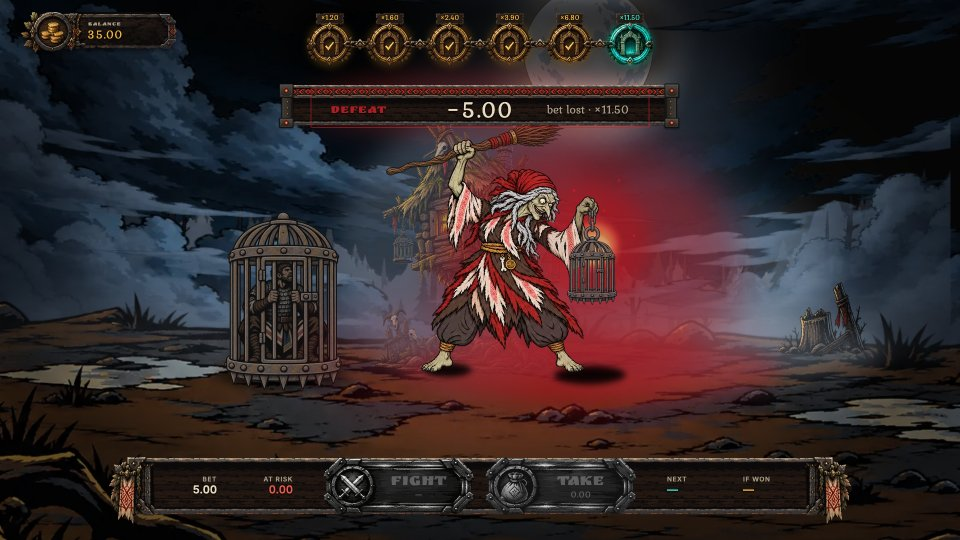
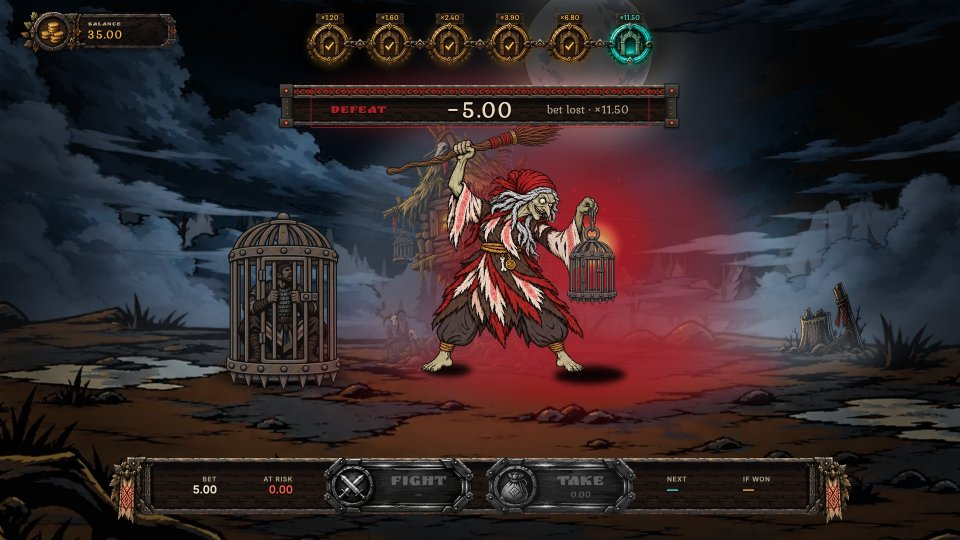
feat: remove the knight rim light
Figma 11.11 deleted every rim light layer. Drop the rim sprites, the
scene colours and their tokens.

diff --git a/docs/qa/report.html b/docs/qa/report.html
@@ -12,11 +12,11 @@
   tr.ok td:first-child { color: #3fe0d0; } tr.bad td:first-child { color: #f05a5a; font-weight: bold; }
 </style></head><body>
 <h1>Casino Game · visual QA</h1>
-<p>Generated 2026-11-11T16:59:53.600Z by <code>prototype/scripts/visual-qa.mjs</code> · app at 1920×1080 (shown at 960×540) · Figma file LXMHPQWUYxLjZiYVTfbx5X.
+<p>Generated 2026-11-11T17:05:49.644Z by <code>prototype/scripts/visual-qa.mjs</code> · app at 1920×1080 (shown at 960×540) · Figma file LXMHPQWUYxLjZiYVTfbx5X.
 Animated frames (attacks, boss entrance) will differ slightly: judge layout, UI and numbers. Character art comes from Lottie, so poses differ from the static Figma frames.</p>
 <h2>Money and runtime checks: 76/76 passed</h2>
 <table><tr class="ok"><td>PASS</td><td>Debug panel: effective RTP for all 7 gates (g1 = 78.0 %)</td><td>g1 78.0% g2 67.6% g3 65.9% g4 69.6% g5 78.9% g6 86.7% g7 93.1%</td></tr><tr class="ok"><td>PASS</td><td>L0: AT RISK (dock) = WIN (counter)</td><td>0.00 vs 0.00</td></tr><tr class="ok"><td>PASS</td><td>L0: AT RISK = game value</td><td>0.00 vs 0</td></tr><tr class="ok"><td>PASS</td><td>L0: TAKE disabled before the first win</td><td></td></tr><tr class="ok"><td>PASS</td><td>L0: FIGHT shows AT RISK</td><td>risk 0.00</td></tr><tr class="ok"><td>PASS</td><td>L0: AT RISK has 2 decimals</td><td>0.00</td></tr><tr class="ok"><td>PASS</td><td>L0: IF WON has 2 decimals</td><td>6.00</td></tr><tr class="ok"><td>PASS</td><td>L0: WIN has 2 decimals</td><td>0.00</td></tr><tr class="ok"><td>PASS</td><td>Balance after PLAY = start − bet</td><td>35.00</td></tr><tr class="ok"><td>PASS</td><td>L1: AT RISK (dock) = WIN (counter)</td><td>6.00 vs 6.00</td></tr><tr class="ok"><td>PASS</td><td>L1: AT RISK = game value</td><td>6.00 vs 6</td></tr><tr class="ok"><td>PASS</td><td>L1: TAKE amount = AT RISK</td><td>6.00 vs 6.00</td></tr><tr class="ok"><td>PASS</td><td>L1: FIGHT shows AT RISK</td><td>risk 6.00</td></tr><tr class="ok"><td>PASS</td><td>L1: AT RISK has 2 decimals</td><td>6.00</td></tr><tr class="ok"><td>PASS</td><td>L1: IF WON has 2 decimals</td><td>8.00</td></tr><tr class="ok"><td>PASS</td><td>L1: WIN has 2 decimals</td><td>6.00</td></tr><tr class="ok"><td>PASS</td><td>L1: path shows only the reached gate</td><td>1</td></tr><tr class="ok"><td>PASS</td><td>L1: plate is text only (no plate art)</td><td>×1.60</td></tr><tr class="ok"><td>PASS</td><td>L1: plate over the vovkulak at 1193,360 (Figma 756:6778)</td><td>1193,360</td></tr><tr class="ok"><td>PASS</td><td>L2: AT RISK (dock) = WIN (counter)</td><td>8.00 vs 8.00</td></tr><tr class="ok"><td>PASS</td><td>L2: AT RISK = game value</td><td>8.00 vs 8</td></tr><tr class="ok"><td>PASS</td><td>L2: TAKE amount = AT RISK</td><td>8.00 vs 8.00</td></tr><tr class="ok"><td>PASS</td><td>L2: FIGHT shows AT RISK</td><td>risk 8.00</td></tr><tr class="ok"><td>PASS</td><td>L2: AT RISK has 2 decimals</td><td>8.00</td></tr><tr class="ok"><td>PASS</td><td>L2: IF WON has 2 decimals</td><td>12.00</td></tr><tr class="ok"><td>PASS</td><td>L2: WIN has 2 decimals</td><td>8.00</td></tr><tr class="ok"><td>PASS</td><td>L3: AT RISK (dock) = WIN (counter)</td><td>12.00 vs 12.00</td></tr><tr class="ok"><td>PASS</td><td>L3: AT RISK = game value</td><td>12.00 vs 12</td></tr><tr class="ok"><td>PASS</td><td>L3: TAKE amount = AT RISK</td><td>12.00 vs 12.00</td></tr><tr class="ok"><td>PASS</td><td>L3: FIGHT shows AT RISK</td><td>risk 12.00</td></tr><tr class="ok"><td>PASS</td><td>L3: AT RISK has 2 decimals</td><td>12.00</td></tr><tr class="ok"><td>PASS</td><td>L3: IF WON has 2 decimals</td><td>19.50</td></tr><tr class="ok"><td>PASS</td><td>L3: WIN has 2 decimals</td><td>12.00</td></tr><tr class="ok"><td>PASS</td><td>L4: AT RISK (dock) = WIN (counter)</td><td>19.50 vs 19.50</td></tr><tr class="ok"><td>PASS</td><td>L4: AT RISK = game value</td><td>19.50 vs 19.5</td></tr><tr class="ok"><td>PASS</td><td>L4: TAKE amount = AT RISK</td><td>19.50 vs 19.50</td></tr><tr class="ok"><td>PASS</td><td>L4: FIGHT shows AT RISK</td><td>risk 19.50</td></tr><tr class="ok"><td>PASS</td><td>L4: AT RISK has 2 decimals</td><td>19.50</td></tr><tr class="ok"><td>PASS</td><td>L4: IF WON has 2 decimals</td><td>34.00</td></tr><tr class="ok"><td>PASS</td><td>L4: WIN has 2 decimals</td><td>19.50</td></tr><tr class="ok"><td>PASS</td><td>L5: AT RISK (dock) = WIN (counter)</td><td>34.00 vs 34.00</td></tr><tr class="ok"><td>PASS</td><td>L5: AT RISK = game value</td><td>34.00 vs 34</td></tr><tr class="ok"><td>PASS</td><td>L5: TAKE amount = AT RISK</td><td>34.00 vs 34.00</td></tr><tr class="ok"><td>PASS</td><td>L5: FIGHT shows AT RISK</td><td>risk 34.00</td></tr><tr class="ok"><td>PASS</td><td>L5: AT RISK has 2 decimals</td><td>34.00</td></tr><tr class="ok"><td>PASS</td><td>L5: IF WON has 2 decimals</td><td>57.50</td></tr><tr class="ok"><td>PASS</td><td>L5: WIN has 2 decimals</td><td>34.00</td></tr><tr class="ok"><td>PASS</td><td>L5: gate 6 enemy is the vovkulak boss, not final</td><td>vovkulakBoss final=false</td></tr><tr class="ok"><td>PASS</td><td>L5: dock still reads IF WON on gate 6</td><td>IF WON</td></tr><tr class="ok"><td>PASS</td><td>L5: plate over the boss at 1201,327 (Figma 756:6539)</td><td>1201,327</td></tr><tr class="ok"><td>PASS</td><td>Gate 6 boss intro banner: BOSS BATTLE · ×11.50, no MAX WIN</td><td>BOSS BATTLE·×11.50</td></tr><tr class="ok"><td>PASS</td><td>Gate 6: FIGHT uses Highlight (boss)</td><td></td></tr><tr class="ok"><td>PASS</td><td>Fight (win): 2–3 exchanges, final blow by the hero</td><td>2 exchanges, winner hero</td></tr><tr class="ok"><td>PASS</td><td>Fight (win): no sprite jumps — every move slides (≥150 ms), shadows on y750 ±4</td><td>5 moves, 0 jumps, y off 0.0 px</td></tr><tr class="ok"><td>PASS</td><td>Fight (lose): 2–3 exchanges, final blow by the enemy</td><td>2 exchanges, winner enemy</td></tr><tr class="ok"><td>PASS</td><td>Fight (lose): no sprite jumps — every move slides (≥150 ms), shadows on y750 ±4</td><td>5 moves, 0 jumps, y off 0.0 px</td></tr><tr class="ok"><td>PASS</td><td>Baba Yaga: cage light is on and follows her (same x as the enemy)</td><td>{"has":true,"follows":true,"src":"/sprites/cage-light.webp"}</td></tr><tr class="ok"><td>PASS</td><td>DEFEAT by Baba Yaga: knight caged at home, she wins on her step 1180</td><td>{"hero":"caged","enemyX":"1180","red":true,"cage":"/sprites/cage-light-red.webp"}</td></tr><tr class="ok"><td>PASS</td><td>DEFEAT by Baba Yaga: red defeat light on, cage light turns red</td><td>{"hero":"caged","enemyX":"1180","red":true,"cage":"/sprites/cage-light-red.webp"}</td></tr><tr class="ok"><td>PASS</td><td>Victory banner = AT RISK growth (19.50 − 12.00)</td><td>+7.50</td></tr><tr class="ok"><td>PASS</td><td>Defeat popup = −bet</td><td></td></tr><tr class="ok"><td>PASS</td><td>Defeat: balance = before − bet</td><td>35.00</td></tr><tr class="ok"><td>PASS</td><td>Cashed out popup = TAKE amount = AT RISK</td><td>+12.00 / 12.00 / 12.00</td></tr><tr class="ok"><td>PASS</td><td>Cashed out: balance = before − bet + payout</td><td>47.00</td></tr><tr class="ok"><td>PASS</td><td>Baba Yaga intro banner shows FINAL BATTLE and the final multiplier</td><td>FINAL BATTLE·MAX WIN×19.00</td></tr><tr class="ok"><td>PASS</td><td>Baba Yaga: dock label reads IF WON (Figma 843:6410)</td><td>IF WON</td></tr><tr class="ok"><td>PASS</td><td>Baba Yaga: FIGHT reads risk = AT RISK</td><td>risk 57.50</td></tr><tr class="ok"><td>PASS</td><td>Baba Yaga: FIGHT uses Highlight</td><td></td></tr><tr class="ok"><td>PASS</td><td>Baba Yaga: plate shows only the final multiplier</td><td>×19.00</td></tr><tr class="ok"><td>PASS</td><td>Baba Yaga: plate over her head at 1247,276 (Figma 843:6410)</td><td>1247,276</td></tr><tr class="ok"><td>PASS</td><td>Baba Yaga: gate 7 enemy is final</td><td>babaYaga final=true</td></tr><tr class="ok"><td>PASS</td><td>MAX WIN popup = IF WON before the boss fight</td><td>+95.00 vs 95.00</td></tr><tr class="ok"><td>PASS</td><td>MAX WIN: balance unchanged until the popup shows</td><td>35</td></tr><tr class="ok"><td>PASS</td><td>MAX WIN: balance = before − bet + payout</td><td>130.00</td></tr><tr class="ok"><td>PASS</td><td>Lottie clip mount during a round (JS) < 100 ms each (roadmap long-task target)</td><td>no Lottie mounted during the round (characters are sprites)</td></tr><tr class="ok"><td>PASS</td><td>No page errors or console errors</td><td></td></tr></table>
-<p><code>info</code> Headless (software GL) long tasks during the perf round: 2, max 62 ms. Not a gate; see checklist for real-GPU numbers.</p>
+<p><code>info</code> Headless (software GL) long tasks during the perf round: 0, max 0 ms. Not a gate; see checklist for real-GPU numbers.</p>
 
     <section>
       <h2>SETUP (lobby) <code>885:10856</code></h2>

diff --git a/prototype/src/scene/Character.jsx b/prototype/src/scene/Character.jsx
@@ -1,6 +1,6 @@
 import { useEffect, useRef } from 'react'
 import SPRITES from './sprites.json'
-import { RIM, SHADOW_Y } from './stage.js'
+import { SHADOW_Y } from './stage.js'
 
 // Poses each character has (Figma sprites, exported with the shadow removed;
 // ax/ay = shadow centre inside the trimmed image, in 1x px).
@@ -14,7 +14,7 @@ const POSES = {
 export function spriteUrls(set) {
   return POSES[set].flatMap((p) => {
     const s = SPRITES[`${set}.${p}`]
-    return [s.src, s.rim?.src, s.light?.src].filter(Boolean)
+    return [s.src, s.light?.src].filter(Boolean)
   })
 }
 
@@ -33,9 +33,9 @@ const FLASH = [
 // is instant and in place (no reload, no jump). The wrapper slides between x
 // positions with a CSS transition (`move`).
 //   set    'hero' | 'vovkulak' | 'vovkulakBoss' | 'babaYaga'    pose   see POSES
-//   flash  a new value → hit flash on the pose     scene  'forest' | 'field' | 'hut' (hero rim light)
+//   flash  a new value → hit flash on the pose
 //   enter  fade in on mount (next enemy)
-export default function Character({ set, pose, x, move, flash, scene, enter = false, qa }) {
+export default function Character({ set, pose, x, move, flash, enter = false, qa }) {
   const imgs = useRef({})
   // Fade-in on mount is a CSS animation (rAF-based state would not run in a hidden tab).
   const fadeIn = useRef(enter).current
@@ -44,7 +44,6 @@ export default function Character({ set, pose, x, move, flash, scene, enter = fa
     // only a new flash value plays the flash
   }, [flash])
 
-  const rim = set === 'hero' && scene ? RIM[scene] : null
   const current = SPRITES[`${set}.${pose}`]
   const down = pose === 'dead'
 
@@ -87,23 +86,6 @@ export default function Character({ set, pose, x, move, flash, scene, enter = fa
               aria-hidden
             >
               <div className={`absolute inset-0 ${active && p === 'idle' ? 'char-breathe' : ''}`}>
-                {rim && s.rim && (
-                  // Upper-body copy under the art; only its coloured offset shadow peeks out.
-                  <img
-                    src={s.rim.src}
-                    srcSet={`${s.rim.src} 1x, ${s.rim.src2x} 2x`}
-                    alt=""
-                    className="absolute block max-w-none"
-                    style={{
-                      left: s.rim.x,
-                      top: s.rim.y,
-                      width: s.rim.w,
-                      height: s.rim.h,
-                      filter: `drop-shadow(${rim.x}px ${rim.y}px 1px ${rim.color}) drop-shadow(${rim.x}px ${rim.y}px 2px ${rim.color})`,
-                    }}
-                    draggable={false}
-                  />
-                )}
                 <img
                   ref={(el) => (imgs.current[p] = el)}
                   src={s.src}

diff --git a/prototype/src/scene/stage.js b/prototype/src/scene/stage.js
@@ -17,14 +17,6 @@ export const PLATE_POS = {
 // Location of each enemy's gate: forest (L1–5), open field (L6), hut (L7).
 export const SCENE_OF = { vovkulak: 'forest', vovkulakBoss: 'field', babaYaga: 'hut' }
 
-// Hero rim light on the upper body, coloured by the scene light (changelog item 23,
-// group "rim light (upper body)": 2 px drop shadow). Colours are tokens.
-export const RIM = {
-  forest: { color: 'var(--color-rim-forest)', x: -3, y: -3 },
-  field: { color: 'var(--color-rim-field)', x: 3, y: -3 },
-  hut: { color: 'var(--color-rim-hut)', x: 4, y: -2 },
-}
-
 // Sprite set per enemy kind.
 export const ENEMY_SPRITES = { vovkulak: 'vovkulak', vovkulakBoss: 'vovkulakBoss', babaYaga: 'babaYaga' }
 

diff --git a/prototype/src/styles/tokens.css b/prototype/src/styles/tokens.css
@@ -42,9 +42,6 @@
   --color-scrim: rgb(13 12 11 / 0.5); /* Overlay/Modal scrim */
   /* Characters (block C+B): shadow ellipse (multiply) and hero rim light per scene. */
   --color-shadow: #000000;
-  --color-rim-forest: rgb(255 176 90 / 0.95); /* #FFB05A, torch on the left */
-  --color-rim-field: rgb(205 220 245 / 0.95); /* #CDDCF5, cold moon on the right */
-  --color-rim-hut: rgb(242 179 61 / 0.95); /* #F2B33D, gold cage light on the right */
   --color-popup-body: rgb(13 12 11 / 0.92);
   --color-popup-border-gold: rgb(242 179 61 / 0.7);
   --color-popup-border-blood: rgb(138 31 31 / 0.9);

diff --git a/prototype/src/scene/Scene.jsx b/prototype/src/scene/Scene.jsx
@@ -107,7 +107,7 @@ export default function Scene({ scene, state }) {
       )}
       {frame.hero && VICTORY_PHASES.includes(state.phase) && <HeroLight x={frame.hero.x} />}
       {frame.hero && (
-        <Character set="hero" qa="char-hero" scene={scene.scene} {...frame.hero} flash={frame.flash.hero} />
+        <Character set="hero" qa="char-hero" {...frame.hero} flash={frame.flash.hero} />
       )}
       {/* FX / Defeat darken 460:2016 covers the fallen knight, then the enemy's lights.
           Baba Yaga's defeat frame 843:6912 has no darken: the caged knight stays readable. */}

diff --git a/docs/decisions.md b/docs/decisions.md
@@ -143,3 +143,4 @@ Log every assumption, trade-off and client answer here. Newest at the bottom.
 | 2026-11-09 | Forest clouds use Roman's corrected crop from 818:5870. The left cut at x376 fades over 130 px. All three locations share one cloud motion: ±18 px drift (26 s) and a 5–8 % zoom (22 s). | The old crop showed its edge; the small enlargement keeps every edge off the stage with drift and parallax. |
 | 2026-11-10 | 10.11 — client: no children; Yaga steals light, cage holds light. New cage art (900:6241 Idle, 900:6243 Hit, 900:6245 Attack, 900:6247 Victory) recomposed with the other Figma layers into the same sprite boxes, so anchors and the cage light did not move. The Figma layer `cage · spirits` is a plain glow and stays, now read as sparks of light. On MAX WIN the cage releases its light: a burst, rising sparks and a brighter scene, while the cage glow fades. | Client call 09.11. |
 | 2026-11-11 | Dock/Main (941:6656) replaces the Dock/Decision states: shell Top=Plain, Inter for functional text with tabular figures, Ruslan Display only on CTA labels, variants lobby / waiting / fight and result (waiting with both CTAs disabled; Defeat and MAX WIN read 0.00 / — / —). PLAY is 364 wide with no subtitle. Lobby dock at 186,896 as in 885:10856. Selected difficulty is gold for every level. | Figma 11.11. |
+| 2026-11-11 | Knight rim light removed from every pose (rim sprites, scene colours and tokens deleted). The earlier open bug "Victory has no rim light" no longer applies. | Figma 11.11: Roman deleted every `rim light (upper body)` layer. |
